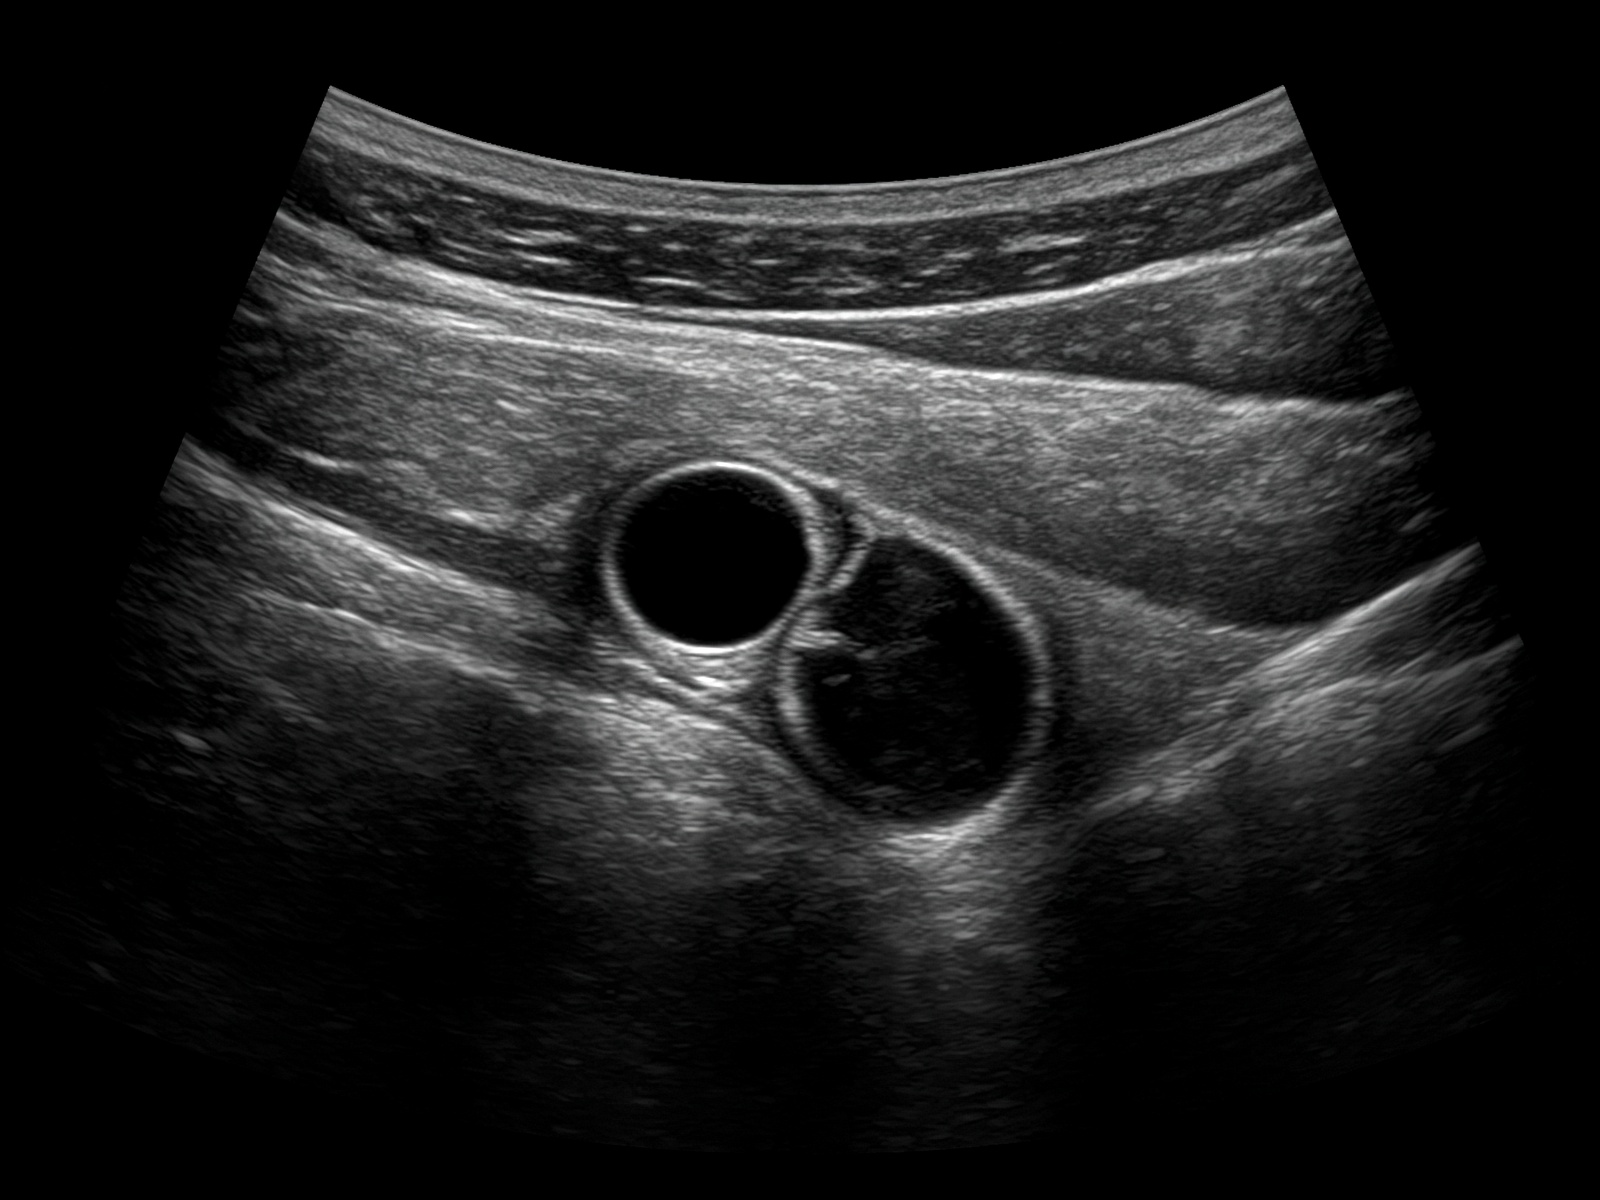
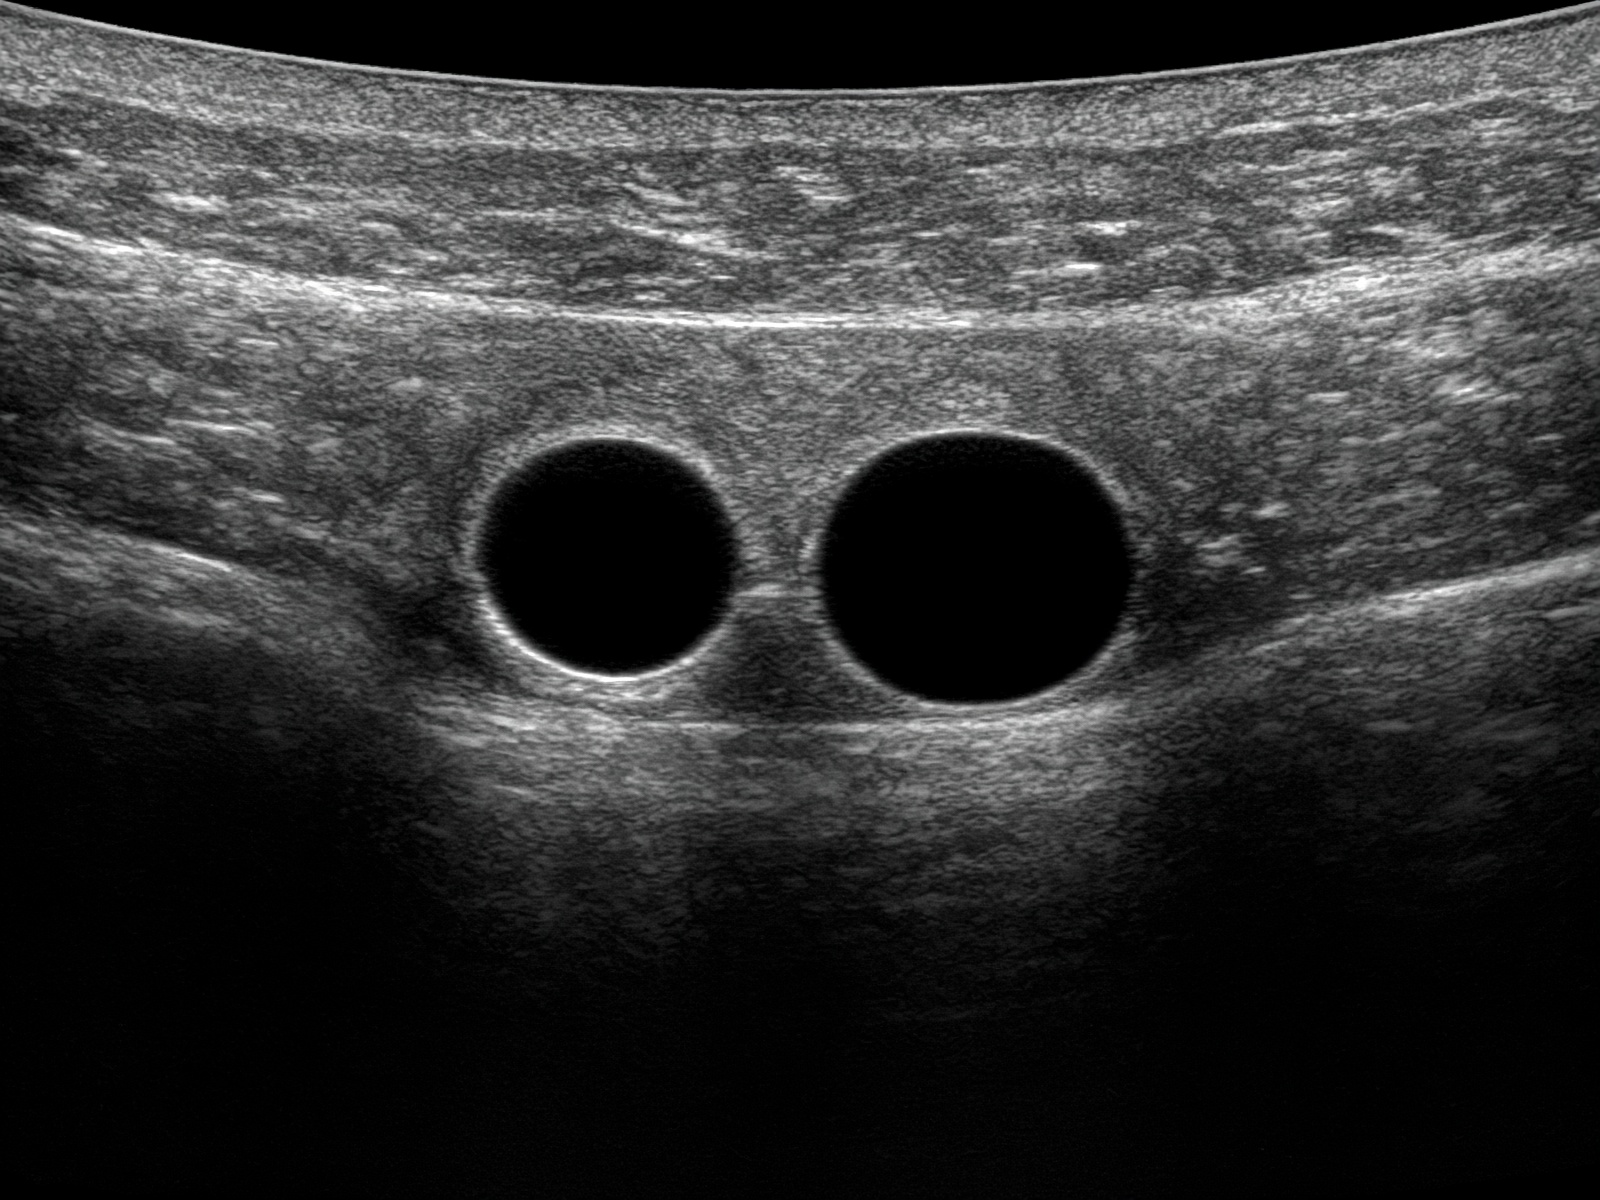
Add optic-nerve ultrasound, moving lung signs, and clear normal-leg lumens.

diff --git a/pocus-lab.html b/pocus-lab.html
@@ -35,7 +35,7 @@ h1{font-family:Fraunces,Georgia,serif;font-weight:520;font-size:20px;margin:0}
   <button type="button" id="back">Back to ICU</button>
   <h1>POCUS</h1>
 </header>
-<p class="note" id="hint">The finger is the probe. This patient already has findings. Move across the chest and the image changes. On a leg, slide down to compress and up to release. The leg on your left, as you look at the front, is normal. The leg on your right has thrombus.</p>
+<p class="note" id="hint">The finger is the probe. This patient already has findings. Move across the chest and the image moves with the breath. Put the probe on a closed eye for the optic nerve sheath. On a leg, slide down to compress. The leg on your left, as you look at the front, is normal. The leg on your right has thrombus.</p>
 <div class="stage">
   <section class="panel">
     <h2 id="title">Ultrasound</h2>
@@ -77,29 +77,34 @@ const FULL = {
   Art:"Artery",
   V1:"Calf vein",
   V2:"Paired calf vein",
-  Closed:"Vein walls apposed"
+  Closed:"Vein walls apposed",
+  Globe:"Ocular globe",
+  ONS:"Optic nerve sheath",
+  "3mm":"Measurement site, 3 mm behind the globe"
 };
 const SHOTS = {
-  normal:{title:"Normal lung, A-lines", src:"pocus/alines.jpg", labels:[["PL",50,28,18,22],["A",50,48,82,55]], note:"A-lines under a bright pleural line. This rib space is aerated."},
-  seashore:{title:"Normal lung, seashore", src:"pocus/seashore.jpg", labels:[["PL",50,42,82,36],["Sea",50,64,18,72]], note:"M-mode seashore sign. The grain under the pleural line is lung sliding."},
-  blines:{title:"Fluid overload, B-lines", src:"pocus/blines.jpg", labels:[["PL",50,28,16,22],["B",52,55,82,48]], note:"Vertical B-lines from the pleural line. Several in one view fit interstitial fluid."},
-  effusion:{title:"Pleural effusion", src:"pocus/effusion.jpg", labels:[["Fluid",58,36,84,28],["Dia",46,52,16,48],["Spine",52,74,82,82]], note:"Black fluid above the diaphragm. The spine shows through behind it."},
-  ptx:{title:"Pneumothorax", src:"pocus/barcode.jpg", labels:[["Bar",50,62,18,70]], note:"M-mode barcode, or stratosphere, sign. The lung is not sliding at this rib space."},
-  consol:{title:"Consolidation", src:"pocus/consol.jpg", labels:[["Lung",48,48,16,40],["Air",58,55,84,62]], note:"The lung looks like tissue. Bright branches are air bronchograms."},
+  normal:{title:"Normal lung, A-lines", src:"pocus/alines.jpg", motion:"slide", labels:[["PL",50,28,18,22],["A",50,48,82,55]], note:"A-lines under a bright pleural line. The lung below the line slides with the breath."},
+  seashore:{title:"Normal lung, seashore", src:"pocus/seashore.jpg", motion:"sea", labels:[["PL",50,42,82,36],["Sea",50,64,18,72]], note:"M-mode seashore sign. The sand under the pleural line moves because the lung is sliding."},
+  blines:{title:"Fluid overload, B-lines", src:"pocus/blines.jpg", motion:"comet", labels:[["PL",50,28,16,22],["B",52,55,82,48]], note:"Vertical B-lines from the pleural line. They shimmer with the breath. Several in one view fit interstitial fluid."},
+  effusion:{title:"Pleural effusion", src:"pocus/effusion.jpg", motion:"diaphragm", labels:[["Fluid",58,36,84,28],["Dia",46,52,16,48],["Spine",52,74,82,82]], note:"Black fluid above the diaphragm. The diaphragm moves with the breath."},
+  ptx:{title:"Pneumothorax", src:"pocus/barcode.jpg", motion:"still", labels:[["Bar",50,62,18,70]], note:"M-mode barcode, the stratosphere sign. Nothing under the pleural line moves. The lung is not sliding."},
+  point:{title:"Lung point", src:"pocus/alines.jpg", motion:"point", labels:[["PL",30,28,14,18],["Bar",74,62,86,74]], note:"Lung point. One side of the pleural line slides with the breath. The other side stays still, which is the stratosphere. The point between them moves as the patient breathes."},
+  consol:{title:"Consolidation", src:"pocus/consol.jpg", motion:"shimmer", labels:[["Lung",48,48,16,40],["Air",58,55,84,62]], note:"The lung looks like tissue. Bright branches are air bronchograms."},
   fluid:{title:"Free fluid, Morrison's pouch", src:"pocus/morrison.jpg", labels:[["Liver",40,38,16,30],["FF",52,52,84,46],["Kid",62,64,84,72]], note:"The black stripe between liver and kidney is free fluid. A normal liver on this view does not clear the rest of the abdomen."},
   bladder:{title:"Bladder", src:"pocus/bladder.jpg", labels:[["Bladder",48,48,16,40],["Balloon",55,58,84,66]], note:"Anechoic bladder. The round bright structure is the catheter balloon."},
-  inguinal:{title:"Right groin, before compression", src:"pocus/vein.jpg", labels:[["CFA",38,52,14,44],["CFV",64,54,88,46]], note:"The artery is round. The vein is the larger oval lumen. Slide down to compress."},
+  onsd:{title:"Optic nerve sheath", src:"pocus/onsd.jpg", labels:[["Globe",30,52,14,28],["3mm",46,40,46,16],["ONS",64,48,86,30]], note:"Closed eyelid, transverse. The black circle is the globe. The dark track is the optic nerve sheath. Measure it 3 mm behind the globe. More than 5 mm in an adult raises concern for raised intracranial pressure. This still is not a caliper reading."},
+  inguinal:{title:"Right groin, before compression", src:"pocus/vein.jpg", labels:[["CFA",38,52,14,44],["CFV",64,54,88,46]], note:"The artery is round and its lumen is empty. The vein is the larger oval lumen, also empty. Slide down to compress."},
   inguinalClot:{title:"Left groin, thrombus", src:"pocus/dvt.jpg", labels:[["CFA",36,50,14,42],["CFV",64,50,88,40],["Thr",64,50,88,66]], note:"The vein on the right of the image is filled. Sliding down does not close it."},
-  pop:{title:"Right knee, before compression", src:"pocus/pop.jpg", labels:[["PA",42,46,16,36],["PV",60,64,86,72]], note:"Behind the knee. The round vessel is the artery. The larger oval is the popliteal vein. Slide down to compress."},
+  pop:{title:"Right knee, before compression", src:"pocus/pop.jpg", labels:[["PA",38,54,16,36],["PV",62,54,86,40]], note:"Behind the knee. Both lumens are empty. The round vessel is the artery. The larger one beside it is the popliteal vein. Slide down to compress."},
   popClot:{title:"Left knee, thrombus", src:"pocus/popclot.jpg", labels:[["PA",36,54,14,44],["PV",62,54,88,44],["Thr",62,54,88,68]], note:"The popliteal vein is filled. It does not collapse."},
-  calf:{title:"Right calf, before compression", src:"pocus/calf.jpg", labels:[["Art",50,40,50,28],["V1",42,56,16,62],["V2",58,56,86,62]], note:"The artery is the upper lumen. The two below are paired calf veins. Slide down to compress."},
+  calf:{title:"Right calf, before compression", src:"pocus/calf.jpg", labels:[["Art",50,40,50,24],["V1",38,62,16,74],["V2",62,62,86,74]], note:"The upper round lumen is the artery, and it is empty. The two below are paired calf veins, also empty. Slide down to compress."},
   calfClot:{title:"Left calf, thrombus", src:"pocus/calfclot.jpg", labels:[["Art",50,38,50,26],["V1",42,54,16,64],["V2",58,54,86,64],["Thr",50,54,84,74]], note:"The paired calf veins are filled. They do not collapse."},
   shut:{title:"Compressed, vein closed", src:"pocus/veinshut.jpg", labels:[["Art",36,52,14,42],["Closed",70,48,88,40]], note:"The round lumen is the artery. The vein is the flat line: the walls have met."}
 };
 
 let compressed = false;
 let zoneKey = "";
-const POOL = ["normal", "seashore", "blines", "effusion", "consol", "ptx"];
+const POOL = ["normal", "seashore", "blines", "effusion", "consol", "ptx", "point"];
 const chestGrid = {};
 function chestFinding(p){
   const gx = Math.max(-4, Math.min(4, Math.round(p.x / 0.07)));
@@ -109,6 +114,7 @@ function chestFinding(p){
   return chestGrid[key];
 }
 const images = {};
+let breathT = 0;
 function load(src){
   if(!src || images[src]) return;
   const im = new Image();
@@ -139,6 +145,37 @@ function drawEcho(){
   if(cr > ir){ dh = H; dw = H * ir; ox = (W - dw) / 2; oy = 0; }
   else { dw = W; dh = W / ir; ox = 0; oy = (H - dh) / 2; }
   ectx.drawImage(im, ox, oy, dw, dh);
+  const phase = Math.sin(breathT);
+  if(shot.motion === "slide" || shot.motion === "sea" || shot.motion === "comet" || shot.motion === "diaphragm" || shot.motion === "shimmer"){
+    const cut = shot.motion === "sea" ? 0.44 : shot.motion === "diaphragm" ? 0.5 : 0.30;
+    const shift = shot.motion === "diaphragm" ? 0 : phase * (shot.motion === "comet" || shot.motion === "shimmer" ? 5 : 14);
+    const vshift = shot.motion === "diaphragm" ? phase * 7 : shot.motion === "comet" ? phase * 4 : 0;
+    ectx.save();
+    ectx.beginPath();
+    ectx.rect(ox, oy + dh * cut, dw, dh * (1 - cut) + 4);
+    ectx.clip();
+    ectx.drawImage(im, ox + shift, oy + vshift, dw, dh);
+    ectx.restore();
+  }else if(shot.motion === "point"){
+    const bar = images["pocus/barcode.jpg"];
+    const slide = images["pocus/alines.jpg"];
+    if(bar && bar.complete && slide && slide.complete){
+      ectx.drawImage(bar, ox, oy, dw, dh);
+      const edge = ox + dw * (0.38 + 0.22 * phase);
+      ectx.save();
+      ectx.beginPath();
+      ectx.rect(ox, oy, Math.max(0, edge - ox), dh);
+      ectx.clip();
+      ectx.drawImage(slide, ox + phase * 10, oy, dw, dh);
+      ectx.restore();
+      ectx.strokeStyle = "rgba(243,239,230,.7)";
+      ectx.lineWidth = 1;
+      ectx.beginPath();
+      ectx.moveTo(edge, oy + dh * 0.18);
+      ectx.lineTo(edge, oy + dh * 0.85);
+      ectx.stroke();
+    }
+  }
   ectx.font = "600 12px Figtree, sans-serif";
   ectx.textAlign = "center";
   ectx.textBaseline = "middle";
@@ -176,6 +213,9 @@ const camera = new THREE.PerspectiveCamera(28, 1, 0.02, 40);
 let yaw = 0, yawTo = 0, dist = 4, distTo = 4;
 const target = new THREE.Vector3(0, 0.9, 0);
 let bodyMesh = null;
+const skinMeshes = [];
+const eyeBox = new THREE.Box3();
+let haveEyes = false;
 const raycaster = new THREE.Raycaster();
 const pointer = new THREE.Vector2();
 const probe = new THREE.Group();
@@ -204,6 +244,7 @@ function frameCamera(){
 let activeShot = null;
 function classify(p){
   const side = p.x >= 0 ? "left" : "right";
+  if(haveEyes && eyeBox.containsPoint(p)) return { zone: "eye", side: side };
   if(p.y >= 0.14 && p.y < 0.46 && Math.abs(p.x) > 0.05) return { zone: "calf", side: side };
   if(p.y >= 0.46 && p.y < 0.72 && Math.abs(p.x) > 0.06) return { zone: "knee", side: side };
   if(p.y >= 0.78 && p.y < 1.02 && Math.abs(p.x) >= 0.11 && Math.abs(p.x) < 0.42) return { zone: "groin", side: side };
@@ -213,7 +254,12 @@ function classify(p){
   return { zone: "off" };
 }
 function shotFor(info){
-  if(!info || info.zone === "off") return { wait: "Move the probe onto the chest, the right upper abdomen, the bladder, or either leg." };
+  if(!info || info.zone === "off") return { wait: "Move the probe onto the chest, a closed eye, the right upper abdomen, the bladder, or either leg." };
+  if(info.zone === "eye"){
+    const shot = Object.assign({}, SHOTS.onsd);
+    shot.title = (info.side === "left" ? "Left eye, " : "Right eye, ") + "optic nerve sheath";
+    return shot;
+  }
   if(info.zone === "chest"){
     const id = chestFinding(hitPoint);
     const shot = Object.assign({}, SHOTS[id]);
@@ -238,7 +284,7 @@ function placeProbe(clientX, clientY){
   pointer.x = ((clientX - rect.left) / rect.width) * 2 - 1;
   pointer.y = -((clientY - rect.top) / rect.height) * 2 + 1;
   raycaster.setFromCamera(pointer, camera);
-  const hits = raycaster.intersectObject(bodyMesh, false);
+  const hits = raycaster.intersectObjects(skinMeshes.length ? skinMeshes : [], false);
   if(!hits.length){
     probe.visible = false;
     hitPoint = null;
@@ -334,10 +380,31 @@ new GLTFLoader().load("models/anatomy/human-reference.glb", function(gltf){
         if(mat.emissive) mat.emissive.setHex(0x3a241c);
         mat.emissiveIntensity = 0.08;
       }
+      if(part === "eyes" || part === "irises" || part === "pupils"){
+        mat.transparent = false;
+        mat.opacity = 1;
+        mat.depthWrite = true;
+        mat.roughness = part === "eyes" ? 0.28 : 0.45;
+        mat.metalness = 0;
+        mat.color.setHex(part === "eyes" ? 0xf3efe8 : part === "irises" ? 0x5c4030 : 0x0a0a0a);
+        if(mat.emissive) mat.emissive.setHex(0x000000);
+        obj.renderOrder = 5;
+      }
     });
+    if(skin[part]) skinMeshes.push(obj);
     if(part === "body") bodyMesh = obj;
   });
   scene.add(model);
+  model.updateMatrixWorld(true);
+  eyeBox.makeEmpty();
+  model.traverse(function(obj){
+    if(!obj.isMesh) return;
+    if(obj.name === "eyes" || obj.name === "irises"){
+      eyeBox.union(new THREE.Box3().setFromObject(obj));
+      haveEyes = true;
+    }
+  });
+  if(haveEyes) eyeBox.expandByScalar(0.035);
   const box = new THREE.Box3().setFromObject(model);
   const size = box.getSize(new THREE.Vector3());
   const center = box.getCenter(new THREE.Vector3());
@@ -352,6 +419,10 @@ new GLTFLoader().load("models/anatomy/human-reference.glb", function(gltf){
 function loop(){
   resize();
   frameCamera();
+  if(activeShot && activeShot.motion && activeShot.motion !== "still"){
+    breathT += 0.045;
+    drawEcho();
+  }
   renderer.render(scene, camera);
   requestAnimationFrame(loop);
 }

diff --git a/hub.html b/hub.html
@@ -2118,7 +2118,7 @@ document.getElementById("rail-tabs").addEventListener("click", function(event){
   if(tab==="train"){ if(window.openBody) window.openBody(); return; }
   if(tab==="test"){ mcqSystem=null; mcqPicked=null; renderTest(); return; }
   if(tab==="abg"){ renderAbg(); return; }
-  if(tab==="pocus"){ location.href = "pocus-lab.html?v=20261101c"; return; }
+  if(tab==="pocus"){ location.href = "pocus-lab.html?v=20261101d"; return; }
   openRail(tab);
 });
 document.getElementById("organ-bubbles").addEventListener("click", function(event){

diff --git a/index.html b/index.html
@@ -2118,7 +2118,7 @@ document.getElementById("rail-tabs").addEventListener("click", function(event){
   if(tab==="train"){ if(window.openBody) window.openBody(); return; }
   if(tab==="test"){ mcqSystem=null; mcqPicked=null; renderTest(); return; }
   if(tab==="abg"){ renderAbg(); return; }
-  if(tab==="pocus"){ location.href = "pocus-lab.html?v=20261101c"; return; }
+  if(tab==="pocus"){ location.href = "pocus-lab.html?v=20261101d"; return; }
   openRail(tab);
 });
 document.getElementById("organ-bubbles").addEventListener("click", function(event){
